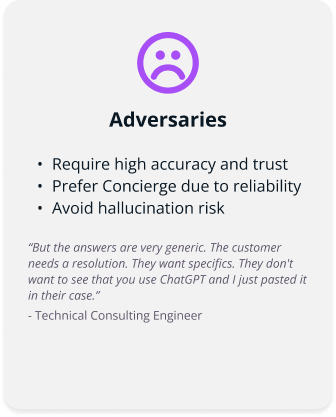
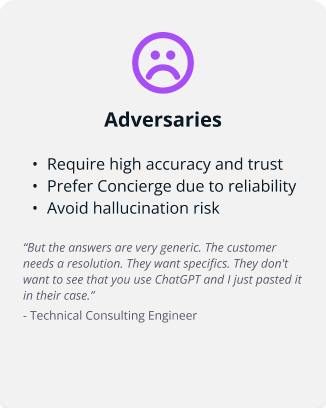
assets: replace enterprise persona images

diff --git a/site/app/work/enterprise-search-generative-ai/page.tsx b/site/app/work/enterprise-search-generative-ai/page.tsx
@@ -94,7 +94,7 @@ export default function EnterpriseSearchCaseStudy() {
     </CaseStudySection>
 
     <CaseStudySection id="ai-attitudes" eyebrow="07 · AI attitudes" title="Three mindsets shaped adoption">
-      <div className="persona-grid"><CaseStudyMedia kind="image" src={asset("ai-adversaries")} alt="Profile of employees who were adversarial toward AI" width={336} height={417} caption="Adversaries prioritized control, provenance, and reliability."/><CaseStudyMedia kind="image" src={asset("ai-light-users")} alt="Profile of light AI users" width={336} height={417} caption="Light users adopted AI selectively for low-risk acceleration."/><CaseStudyMedia kind="image" src={asset("ai-power-users")} alt="Profile of AI power users" width={336} height={417} caption="Power users expected synthesis, speed, and tool interoperability."/></div>
+      <div className="persona-grid"><CaseStudyMedia kind="image" src={asset("ai-adversaries")} alt="Profile of employees who were adversarial toward AI" width={326} height={408} caption="Adversaries prioritized control, provenance, and reliability."/><CaseStudyMedia kind="image" src={asset("ai-light-users")} alt="Profile of light AI users" width={326} height={409} caption="Light users adopted AI selectively for low-risk acceleration."/><CaseStudyMedia kind="image" src={asset("ai-power-users")} alt="Profile of AI power users" width={327} height={409} caption="Power users expected synthesis, speed, and tool interoperability."/></div>
       <div className="prose"><p>These attitudes were not a simple maturity ladder. Each group expressed legitimate needs. Adversaries made the case for transparent sources; light users highlighted the need for low-friction, situational value; power users showed why internal retrieval had to become composable within AI workflows.</p></div>
     </CaseStudySection>
 
